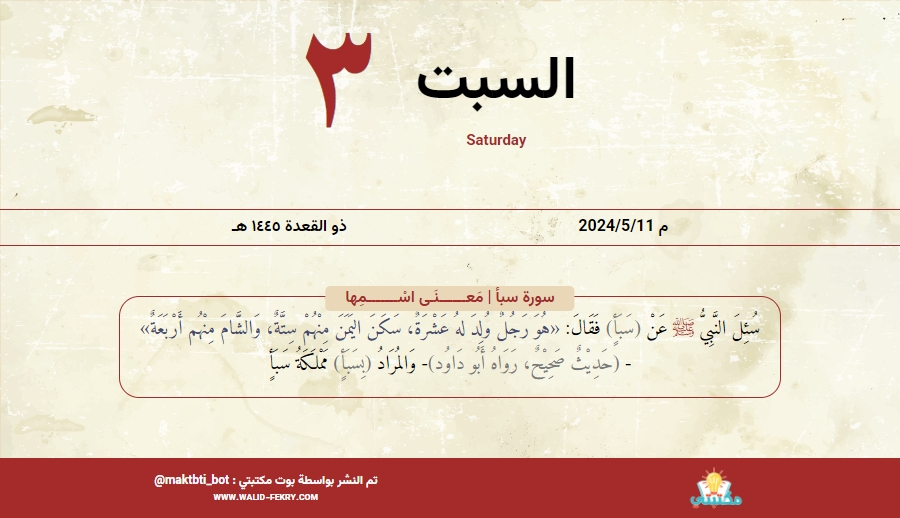
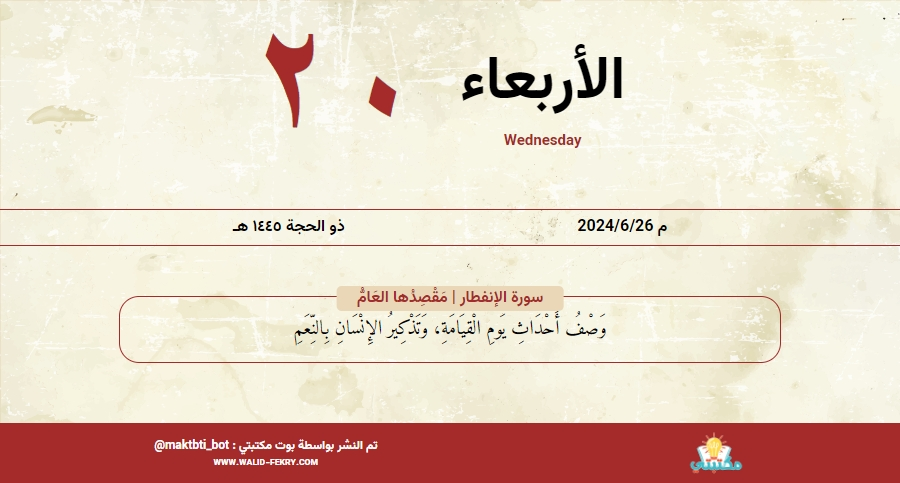
Edit index.js

diff --git a/module/Hijri/index.html b/module/Hijri/index.html
@@ -13,21 +13,21 @@
     <div id="header">
 
         <div id="header_top">
-            <p id="number">٣</p>
+            <p id="number">٢٠</p>
 
             <div id="today">
 
-                <p id="today_ar">السبت</p>
-                <p id="today_en">Saturday</p>
+                <p id="today_ar">الأربعاء</p>
+                <p id="today_en">Wednesday</p>
 
             </div>
         </div>
 
         <div id="header_bottom">
 
-            <p>ذو القعدة ١٤٤٥ هـ</p>
+            <p>ذو الحجة ١٤٤٥ هـ</p>
 
-            <P>2024/5/11 م</P>
+            <P>2024/6/26 م</P>
 
         </div>
 
@@ -37,11 +37,11 @@
 
     <div id="content">
 
-        <p id="title">سورة سبأ | مَعــــــنَـى اسْـــــــمِها</p>
+        <p id="title">سورة الإنفطار | مَقْصِدُها العَامُّ</p>
 
         <div id="text">
 
-            سُئِلَ النَّبِيُّ <span style="color: #b62b2b;">ﷺ</span> عَنْ <span style="color: #797979;">(سَبَأٍ)</span> فَقَالَ: <span style="color: #464970;">«هُوَ رَجُلٌ وُلِدَ لهُ عَشْرَةٌ، سَكَنَ اليَمَنَ مِنْهُمْ سِتَّةٌ، وَالشَّامَ مِنْهُم أَرْبَعَةٌ»</span> - <span style="color: #797979;">(حَدِيْثٌ صَحِيْحٌ، رَوَاهُ أَبُو دَاوُد)</span>- وَالمُرَادُ <span style="color: #797979;">(بِسَبَأٍ)</span> مَمْلَكَةُ سَبَأٍ
+            وَصْفُ أَحْدَاثِ يَومِ الْقِيَامَةِ، وَتَذْكِيرُ الإِنْسَانِ بِالنِّعَمِ
 
         </div>
 

diff --git a/command/index.js b/command/index.js
@@ -1,11 +1,14 @@
 import share from './share.js';
 import start from './start.js';
+import info from './info.js';
 import eid_al_adha from './eid_al_adha.js';
 import database from './database.js';
 
 export default async function command(client, Markup, config) {
     try {
         await start(client, Markup);
+        await share(client, Markup);
+        await info(client, Markup);
         await eid_al_adha(client, config);
         await database(client, Markup);
     } catch (error) {
